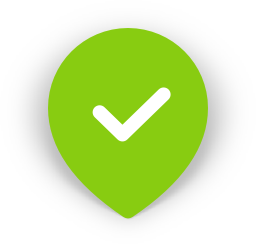
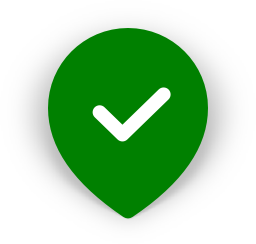
Number on POI card green on arrived at destination

diff --git a/src/components/shared/MarkerListView/index.js b/src/components/shared/MarkerListView/index.js
@@ -10,7 +10,6 @@ import { SegmentControlHeight } from "../SegmentControl/styles";
 import MapMarkerView from "../MapMarkerView";
 import ARView from "../ARView";
 import LangService from "../../../services/langService";
-import LocationService from "../../../services/locationService";
 import { LocationUtils, UrlUtils, AnalyticsUtils, MapItemUtils, NavigationModeUtils } from "../../../utils";
 import { selectCurrentContentObject, selectCurrentGuideGroup, selectCurrentGuide } from "../../../actions/uiStateActions";
 import { AR_INSTRUCTIONS_SHOWN } from "../../../lib/my_consts";
@@ -189,8 +188,15 @@ class MarkerListView extends Component<Props, State> {
 
   displayNumberView = (item: MapItem, index: number) => {
     const numberString = `${index}`;
+    const { userLocation } = this.props;
+    let hasArrived = false;
+
+    if (userLocation) {
+      hasArrived = LocationUtils.hasArrivedAtDestination(userLocation, MapItemUtils.getLocationFromItem(item));
+    }
+
     const numberView = (
-      <View style={styles.listImageNumberView}>
+      <View style={hasArrived ? styles.listImageNumberViewArrived : styles.listImageNumberView}>
         <Text style={styles.listImageNumberText}>{numberString}</Text>
       </View>
     );
@@ -247,8 +253,8 @@ class MarkerListView extends Component<Props, State> {
     if (!location || !userLocation) return null;
 
     const { coords } = userLocation;
-    const distance = Math.round(LocationService.getTravelDistance(coords, location));
-    const time = Math.round(LocationService.getTravelTime(distance));
+    const distance = Math.round(LocationUtils.getTravelDistance(coords, location));
+    const time = Math.round(LocationUtils.getTravelTime(distance));
 
     const min = LangService.strings.MINUTE;
     const hour = LangService.strings.HOUR;

diff --git a/src/utils/LocationUtils.js b/src/utils/LocationUtils.js
@@ -1,7 +1,11 @@
 // @flow
 import { Platform } from "react-native";
 import geolib from "geolib";
+import haversine from "haversine";
 import { fromLatLngToPoint } from "mercator-projection";
+
+const WALKING_SPEED = 80; // metres per minute
+const ARRIVE_DISTANCE = 20;
 
 function getDistanceBetweenCoordinates(firstLocation: PositionLongLat, secondLocation: PositionLongLat): number {
   if (firstLocation.latitude && firstLocation.longitude && secondLocation.latitude && secondLocation.longitude) {
@@ -66,6 +70,18 @@ function angleBetweenCoords(start: { latitude: number, longitude: number }, end:
   return angle;
 }
 
+function getTravelDistance(fromLocation, toLocation, unit = "meter") {
+  return haversine(fromLocation, toLocation, { unit }) || 0;
+}
+
+function getTravelTime(distance) {
+  return distance / WALKING_SPEED;
+}
+
+function hasArrivedAtDestination(userLocation: GeolocationType, destination: { latitude: number, longitude: number }) {
+  return getTravelDistance(userLocation.coords, destination) < ARRIVE_DISTANCE;
+}
+
 // Location of second mapItem in Sofiero-Topp-10, for testing purpose
 const mockLocation = {
   coords: {
@@ -81,4 +97,7 @@ export default {
   getLocationRelativePosition,
   angleBetweenCoords,
   mockLocation,
+  getTravelDistance,
+  getTravelTime,
+  hasArrivedAtDestination,
 };

diff --git a/src/components/shared/ARView/MarkerScene.js b/src/components/shared/ARView/MarkerScene.js
@@ -1,11 +1,8 @@
 // @flow
 import React, { Component } from "react";
 import { ViroARScene, ViroText, ViroConstants } from "react-viro";
-import LocationService from "../../../services/locationService";
 import { LocationUtils, MapItemUtils, MathUtils } from "../../../utils";
 import Marker from "./Marker";
-
-const ARRIVE_DISTANCE = 10;
 
 type Props = {
   arSceneNavigator: any,
@@ -128,7 +125,8 @@ export default class MarkerScene extends Component<Props, State> {
           markers.map((marker) => {
             const id = MapItemUtils.getIdFromMapItem(marker);
             const active = MapItemUtils.getIdFromMapItem(activeMarker) === id;
-            const arrived = LocationService.getTravelDistance(userLocation.coords, marker.contentObject.location) < ARRIVE_DISTANCE;
+            const arrived = LocationUtils.hasArrivedAtDestination(userLocation, marker.contentObject.location);
+
             return <Marker key={id} marker={marker} active={active} onPress={onArMarkerPressed} arrived={arrived} />;
           })
         )}

diff --git a/src/services/locationService.js b/src/services/locationService.js
@@ -2,13 +2,10 @@ import { Alert, Platform, Linking } from "react-native";
 import Permissions from "react-native-permissions";
 import AndroidOpenSettings from "react-native-android-open-settings";
 import RNSimpleCompass from "react-native-simple-compass";
-import haversine from "haversine";
 import LangService from "./langService";
 import GeoLocationActions from "../actions/geolocationActions";
 
 const ios = Platform.OS === "ios";
-
-const WALKING_SPEED = 80; // metres per minute
 
 // Response is one of: 'authorized', 'denied', 'restricted', or 'undetermined'
 const PermissionsResponse = {
@@ -81,10 +78,6 @@ export default class LocationService {
     if (!instance) instance = new LocationService();
     return instance;
   }
-
-  static getTravelDistance = (fromLocation, toLocation, unit = "meter") => haversine(fromLocation, toLocation, { unit }) || 0;
-
-  static getTravelTime = distance => distance / WALKING_SPEED;
 
   upatePosition = () => new Promise((resolve, reject) => getLocation().then(
     (position) => {

diff --git a/src/components/shared/MarkerListView/styles.js b/src/components/shared/MarkerListView/styles.js
@@ -34,6 +34,15 @@ const listItemShared = {
   shadowOpacity: 1,
 };
 
+const listImageNumberViewShared = {
+  alignItems: "center",
+  borderRadius: 11,
+  flexDirection: "row",
+  height: 22,
+  justifyContent: "center",
+  width: 22,
+};
+
 export default StyleSheet.create({
   container: {
     backgroundColor: Colors.white,
@@ -101,13 +110,12 @@ export default StyleSheet.create({
     },
   ]),
   listImageNumberView: {
-    alignItems: "center",
+    ...listImageNumberViewShared,
     backgroundColor: Colors.purple,
-    borderRadius: 11,
-    flexDirection: "row",
-    height: 22,
-    justifyContent: "center",
-    width: 22,
+  },
+  listImageNumberViewArrived: {
+    ...listImageNumberViewShared,
+    backgroundColor: Colors.green,
   },
   listItem: {
     ...listItemShared,
